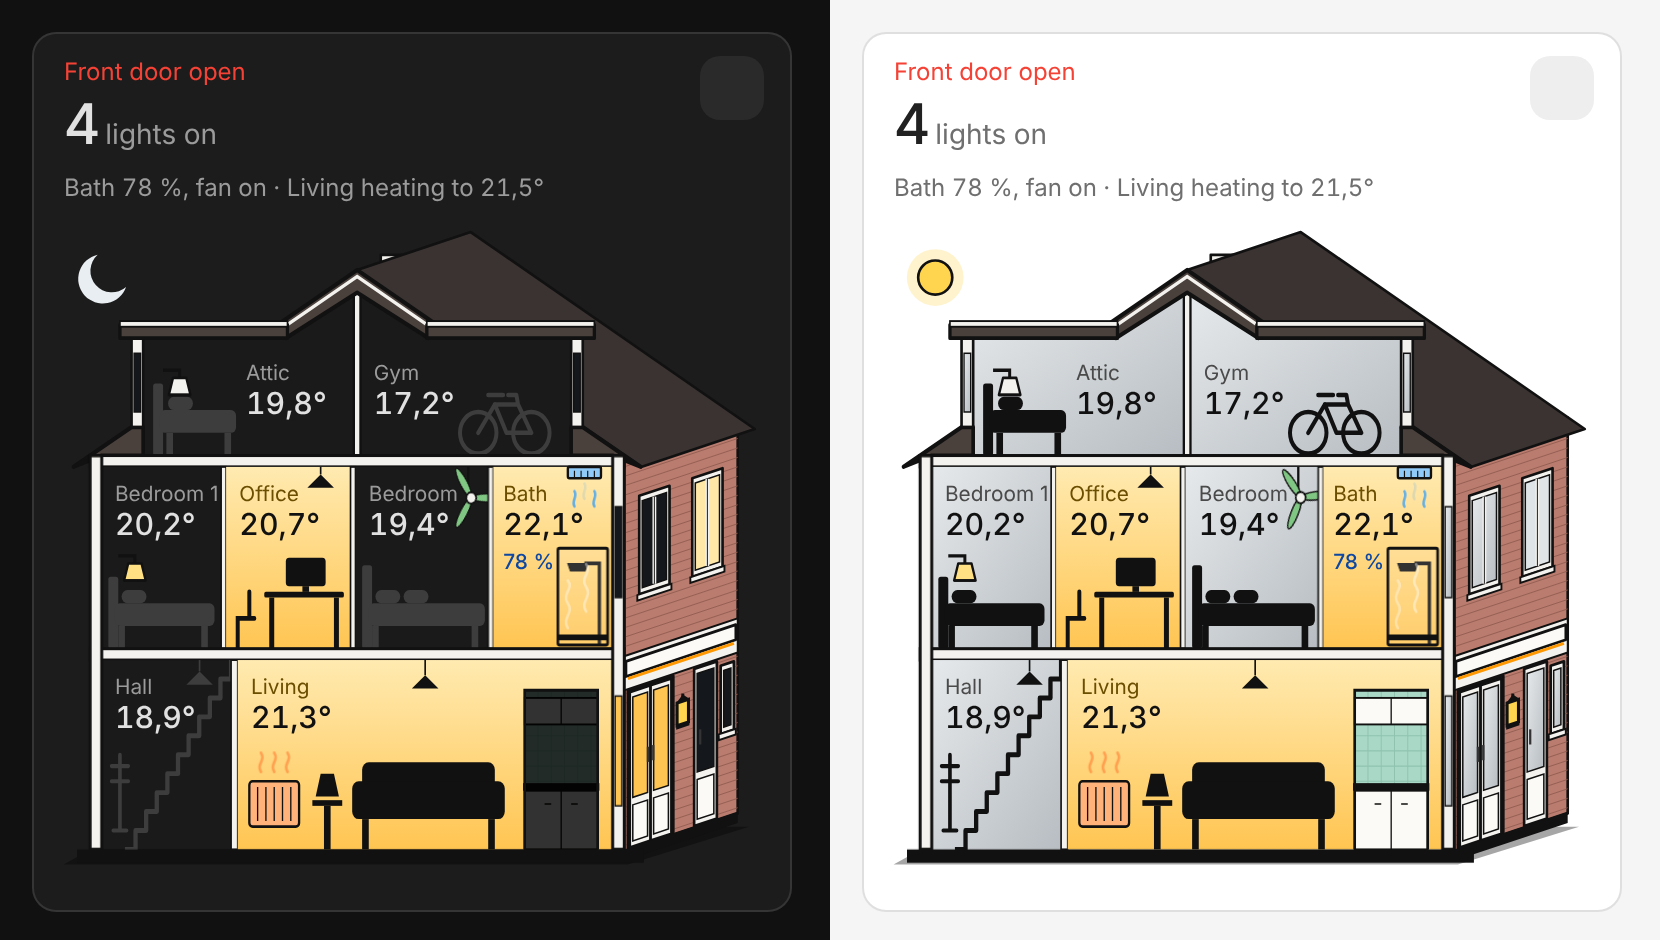
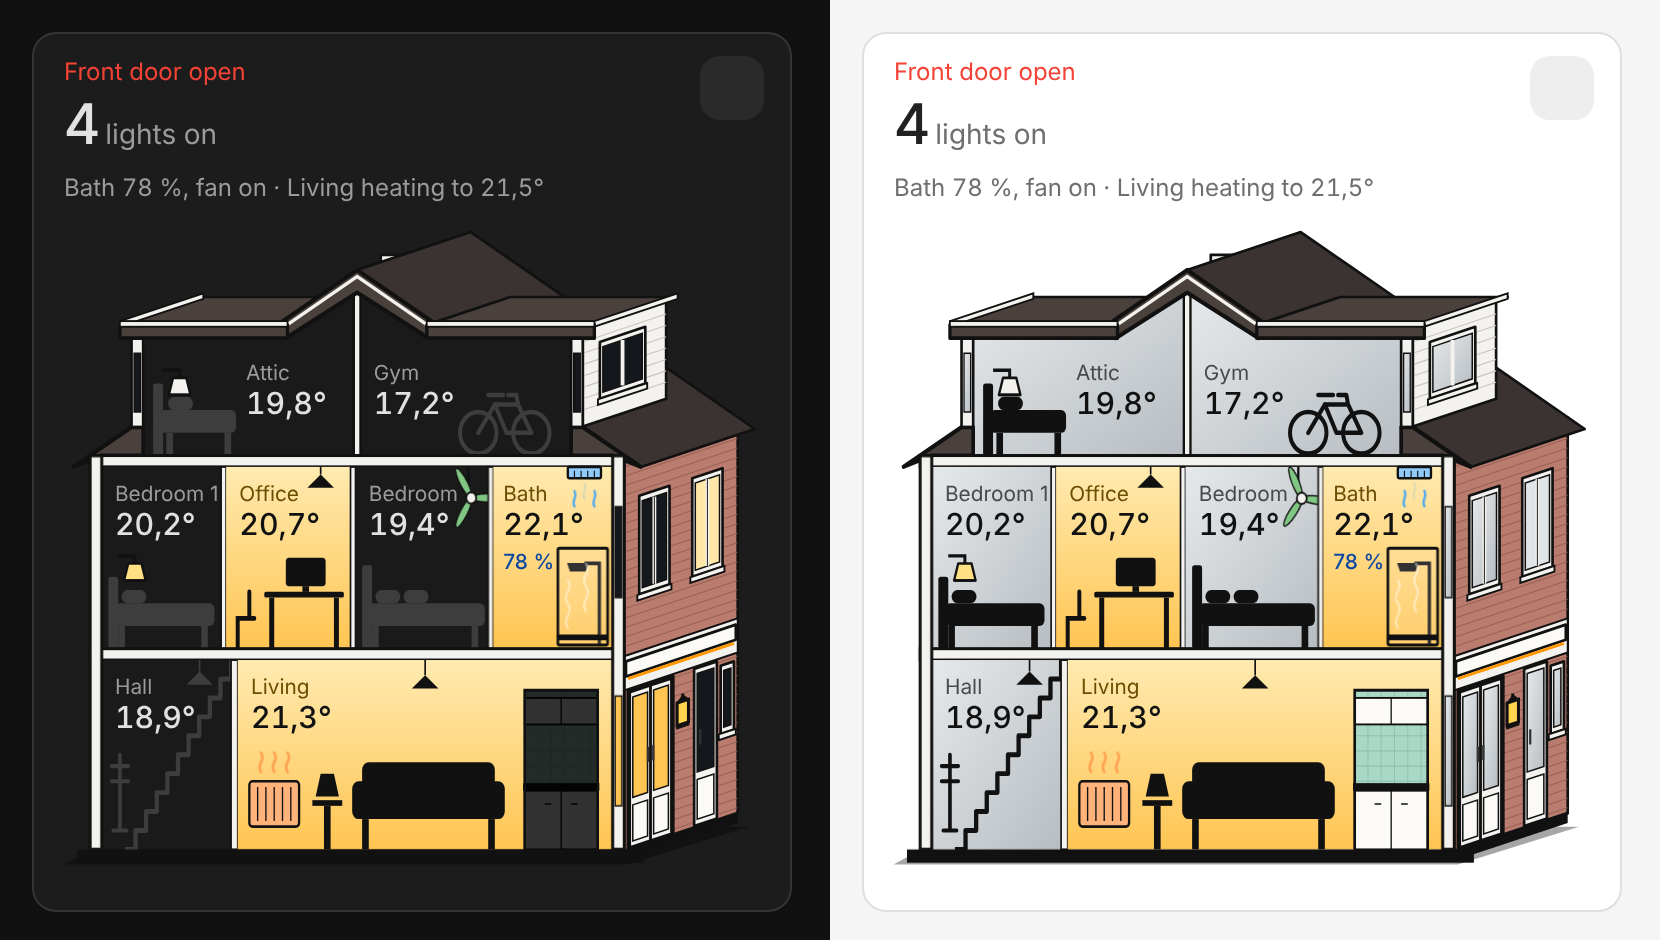
v0.4.1: dakkapellen in perspective, no sun or moon
The dakkapellen get depth: their flat roofs recede along the roof with
the same oblique as the garden side, and the right one shows its side
with cladding and a window. The sun and moon are gone; night and day
still show in the rooms.

Claude-Session: https://claude.ai/code/session_017BEvUozz4RS57wTic4M66U

diff --git a/room-card.js b/room-card.js
@@ -19,7 +19,7 @@
 // Everything sits in one block so the top-level names cannot clash with the
 // sister cards when the files are loaded as classic scripts.
 {
-const VERSION = "0.4.0";
+const VERSION = "0.4.1";
 
 const RC_HOLD_MS = 500;
 const RC_MOVE_PX = 10;
@@ -182,8 +182,6 @@ const rcScene = (v) => `<defs>
       <linearGradient id="${v.uid}-day" x1="0" y1="0" x2="1" y2="1"><stop offset="0" stop-color="#e6e9eb"></stop><stop offset="1" stop-color="#b7bdc2"></stop></linearGradient>
       <linearGradient id="${v.uid}-beam" x1="0" y1="0" x2="0" y2="1"><stop offset="0" stop-color="#fff6cf" stop-opacity=".95"></stop><stop offset="1" stop-color="#ffe082" stop-opacity="0"></stop></linearGradient>
     </defs>
-<g opacity="${v.o.moon}"><path d="M22 -2a13 13 0 1 0 15 17a10.5 10.5 0 1 1 -15 -17z" fill="#e8eef2"></path></g>
-<g opacity="${v.o.sun}"><circle cx="26" cy="10" r="15" fill="#ffd54f" opacity=".28"></circle><circle cx="26" cy="10" r="9" fill="#ffd54f" stroke="#111" stroke-width="1.4" stroke-linejoin="round"></circle></g>
 <polygon points="4,320 302,320 366,300 40,300" fill="#000" opacity=".35"></polygon>
 <polygon points="300.0,104.0 360.0,84.0 360.0,293.0 300.0,313.0" fill="#b97c6e" stroke="#111" stroke-width="1.4" stroke-linejoin="round"></polygon>
 <g><line x1="300.0" y1="110.0" x2="360.0" y2="90.0" stroke="#8f5a4f" stroke-width="0.45"></line><line x1="300.0" y1="115.0" x2="360.0" y2="95.0" stroke="#8f5a4f" stroke-width="0.45"></line><line x1="300.0" y1="120.0" x2="360.0" y2="100.0" stroke="#8f5a4f" stroke-width="0.45"></line><line x1="300.0" y1="125.0" x2="360.0" y2="105.0" stroke="#8f5a4f" stroke-width="0.45"></line><line x1="300.0" y1="130.0" x2="360.0" y2="110.0" stroke="#8f5a4f" stroke-width="0.45"></line><line x1="300.0" y1="135.0" x2="360.0" y2="115.0" stroke="#8f5a4f" stroke-width="0.45"></line><line x1="300.0" y1="140.0" x2="360.0" y2="120.0" stroke="#8f5a4f" stroke-width="0.45"></line><line x1="300.0" y1="145.0" x2="360.0" y2="125.0" stroke="#8f5a4f" stroke-width="0.45"></line><line x1="300.0" y1="150.0" x2="360.0" y2="130.0" stroke="#8f5a4f" stroke-width="0.45"></line><line x1="300.0" y1="155.0" x2="360.0" y2="135.0" stroke="#8f5a4f" stroke-width="0.45"></line><line x1="300.0" y1="160.0" x2="360.0" y2="140.0" stroke="#8f5a4f" stroke-width="0.45"></line><line x1="300.0" y1="165.0" x2="360.0" y2="145.0" stroke="#8f5a4f" stroke-width="0.45"></line><line x1="300.0" y1="170.0" x2="360.0" y2="150.0" stroke="#8f5a4f" stroke-width="0.45"></line><line x1="300.0" y1="175.0" x2="360.0" y2="155.0" stroke="#8f5a4f" stroke-width="0.45"></line><line x1="300.0" y1="180.0" x2="360.0" y2="160.0" stroke="#8f5a4f" stroke-width="0.45"></line><line x1="300.0" y1="185.0" x2="360.0" y2="165.0" stroke="#8f5a4f" stroke-width="0.45"></line><line x1="300.0" y1="190.0" x2="360.0" y2="170.0" stroke="#8f5a4f" stroke-width="0.45"></line><line x1="300.0" y1="195.0" x2="360.0" y2="175.0" stroke="#8f5a4f" stroke-width="0.45"></line><line x1="300.0" y1="200.0" x2="360.0" y2="180.0" stroke="#8f5a4f" stroke-width="0.45"></line><line x1="300.0" y1="205.0" x2="360.0" y2="185.0" stroke="#8f5a4f" stroke-width="0.45"></line><line x1="300.0" y1="210.0" x2="360.0" y2="190.0" stroke="#8f5a4f" stroke-width="0.45"></line><line x1="300.0" y1="215.0" x2="360.0" y2="195.0" stroke="#8f5a4f" stroke-width="0.45"></line><line x1="300.0" y1="220.0" x2="360.0" y2="200.0" stroke="#8f5a4f" stroke-width="0.45"></line><line x1="300.0" y1="225.0" x2="360.0" y2="205.0" stroke="#8f5a4f" stroke-width="0.45"></line><line x1="300.0" y1="230.0" x2="360.0" y2="210.0" stroke="#8f5a4f" stroke-width="0.45"></line><line x1="300.0" y1="235.0" x2="360.0" y2="215.0" stroke="#8f5a4f" stroke-width="0.45"></line><line x1="300.0" y1="240.0" x2="360.0" y2="220.0" stroke="#8f5a4f" stroke-width="0.45"></line><line x1="300.0" y1="245.0" x2="360.0" y2="225.0" stroke="#8f5a4f" stroke-width="0.45"></line><line x1="300.0" y1="250.0" x2="360.0" y2="230.0" stroke="#8f5a4f" stroke-width="0.45"></line><line x1="300.0" y1="255.0" x2="360.0" y2="235.0" stroke="#8f5a4f" stroke-width="0.45"></line><line x1="300.0" y1="260.0" x2="360.0" y2="240.0" stroke="#8f5a4f" stroke-width="0.45"></line><line x1="300.0" y1="265.0" x2="360.0" y2="245.0" stroke="#8f5a4f" stroke-width="0.45"></line><line x1="300.0" y1="270.0" x2="360.0" y2="250.0" stroke="#8f5a4f" stroke-width="0.45"></line><line x1="300.0" y1="275.0" x2="360.0" y2="255.0" stroke="#8f5a4f" stroke-width="0.45"></line><line x1="300.0" y1="280.0" x2="360.0" y2="260.0" stroke="#8f5a4f" stroke-width="0.45"></line><line x1="300.0" y1="285.0" x2="360.0" y2="265.0" stroke="#8f5a4f" stroke-width="0.45"></line><line x1="300.0" y1="290.0" x2="360.0" y2="270.0" stroke="#8f5a4f" stroke-width="0.45"></line><line x1="300.0" y1="295.0" x2="360.0" y2="275.0" stroke="#8f5a4f" stroke-width="0.45"></line><line x1="300.0" y1="300.0" x2="360.0" y2="280.0" stroke="#8f5a4f" stroke-width="0.45"></line><line x1="300.0" y1="305.0" x2="360.0" y2="285.0" stroke="#8f5a4f" stroke-width="0.45"></line><line x1="300.0" y1="310.0" x2="360.0" y2="290.0" stroke="#8f5a4f" stroke-width="0.45"></line></g>
@@ -205,6 +203,7 @@ const rcScene = (v) => `<defs>
 <polygon points="300.0,312.0 360.0,292.0 360.0,298.0 300.0,318.0" fill="#111" ></polygon>
 <rect x="174" y="2" width="12.3" height="22" fill="#b97c6e" stroke="#111" stroke-width="1.4" stroke-linejoin="round"></rect><rect x="171.5" y="-2" width="17.5" height="5" fill="#f4f2ee" stroke="#111" stroke-width="1.4" stroke-linejoin="round"></rect>
 <polygon points="309,110 159,6 219,-14 369,90" fill="#3a3331" stroke="#111" stroke-width="1.4" stroke-linejoin="round"></polygon>
+<polygon points="33.8,35.0 122.2,35.0 166.2,20.3 77.8,20.3" fill="#4a403c" stroke="#111" stroke-width="1.4" stroke-linejoin="round"></polygon><polygon points="33.8,33.0 33.8,36.0 77.8,21.3 77.8,18.3" fill="#f4f2ee" stroke="#111" stroke-width="1"></polygon><polygon points="278.2,36.0 322.2,21.3 322.2,74.0 278.2,88.7" fill="#f4f2ee" stroke="#111" stroke-width="1.4" stroke-linejoin="round"></polygon><line x1="278.2" y1="44.0" x2="322.2" y2="29.3" stroke="#c9c5bd" stroke-width=".6"></line><line x1="278.2" y1="50.0" x2="322.2" y2="35.3" stroke="#c9c5bd" stroke-width=".6"></line><line x1="278.2" y1="56.0" x2="322.2" y2="41.3" stroke="#c9c5bd" stroke-width=".6"></line><line x1="278.2" y1="62.0" x2="322.2" y2="47.3" stroke="#c9c5bd" stroke-width=".6"></line><line x1="278.2" y1="68.0" x2="322.2" y2="53.3" stroke="#c9c5bd" stroke-width=".6"></line><line x1="278.2" y1="74.0" x2="322.2" y2="59.3" stroke="#c9c5bd" stroke-width=".6"></line><line x1="278.2" y1="80.0" x2="322.2" y2="65.3" stroke="#c9c5bd" stroke-width=".6"></line><polygon points="287.2,44.0 311.2,36.0 311.2,66.0 287.2,74.0" fill="#f4f2ee" stroke="#111" stroke-width="1.4" stroke-linejoin="round"></polygon><polygon points="288.8,46.5 309.6,39.5 309.6,63.5 288.8,70.5" fill="${v.winGlass}" stroke="#111" stroke-width=".8"></polygon><line x1="299.2" y1="43.0" x2="299.2" y2="67.0" stroke="#f4f2ee" stroke-width="2"></line><polygon points="286.2,74.3 312.2,65.7 312.2,68.7 286.2,77.3" fill="#f4f2ee" stroke="#111" stroke-width="1"></polygon><polygon points="195.8,35.0 284.3,35.0 328.3,20.3 239.8,20.3" fill="#4a403c" stroke="#111" stroke-width="1.4" stroke-linejoin="round"></polygon><polygon points="284.3,33.0 284.3,36.0 328.3,21.3 328.3,18.3" fill="#f4f2ee" stroke="#111" stroke-width="1"></polygon>
 <g transform="matrix(0.876 0 0 1 2.232 0)">
 <g class="room ${v.cls.attic_right}" data-act="attic_right" role="button" tabindex="0" aria-label="${v.aria.attic_right}"><polygon points="181,19 222,42 308,42 308,104 181,104" fill="${v.fill.attic_right}"></polygon><g fill="none" stroke="${v.ink.attic_right}" stroke-width="2.4" stroke-linecap="round" stroke-linejoin="round"><circle cx="252" cy="92" r="11"></circle><circle cx="284" cy="92" r="11"></circle><path d="M252 92l10-15h14l8 15M262 77l7 15h15M276 77l-1-5h-5M258 72h9"></path></g><text transform="matrix(1.1416 0 0 1 -26.753 0)" x="189" y="64" font-size="11" fill="${v.txt2.attic_right}">${v.label.attic_right}</text><text transform="matrix(1.1416 0 0 1 -26.753 0)" x="189" y="82" font-size="16" font-weight="500" fill="${v.txt.attic_right}" style="font-variant-numeric: tabular-nums">${v.temp.attic_right}</text></g>
 <g class="room ${v.cls.attic_left}" data-act="attic_left" role="button" tabindex="0" aria-label="${v.aria.attic_left}"><polygon points="50,104 50,42 136,42 177,19 177,104" fill="${v.fill.attic_left}"></polygon><g fill="${v.ink.attic_left}"><rect x="56" y="66" width="6" height="38" rx="1.5"></rect><rect x="60" y="80" width="46" height="12" rx="3"></rect><rect x="64" y="92" width="4" height="12"></rect><rect x="99" y="92" width="4" height="12"></rect><rect x="65" y="73" width="15" height="7" rx="3.5"></rect></g><text transform="matrix(1.1416 0 0 1 -15.854 0)" x="112" y="64" font-size="11" fill="${v.txt2.attic_left}">${v.label.attic_left}</text><text transform="matrix(1.1416 0 0 1 -15.854 0)" x="112" y="82" font-size="16" font-weight="500" fill="${v.txt.attic_left}" style="font-variant-numeric: tabular-nums">${v.temp.attic_left}</text></g>
@@ -746,8 +745,6 @@ class RoomCard extends HTMLElement {
     v.kitchenGlass = night ? (kitchenOn ? "#ffc552" : "#14181c") : `url(#${u}-day)`;
     v.lanternGlass = this._on(c.entities.lantern) ? "#ffd54f" : "#3a3a3a";
     v.hemColor = "#ff9800";
-    v.o.moon = night ? 1 : 0;
-    v.o.sun = night ? 0 : 1;
     return v;
   }
 

diff --git a/README.md b/README.md
@@ -21,7 +21,7 @@ The drawing is the owner's house: an attic with a dakkapel on both sides (two ro
 | Living room | Radiator that glows with heat waves while its thermostat is heating; open passage to the kitchen |
 | Kitchen | Lit by day; at night dark, or warm while `kitchen_light` is on. Its door and window on the garden side follow the same |
 | Garden side | The facade from the Gardenview House card: sun screen cassette, French doors, brick pier with the lantern, kitchen door and window. At night the French doors and the `first_3` window glow while that room's light is on; the bathroom window is frosted and glows pale |
-| Sky | Moon at night, sun by day. Dark: the `dark` entity (on/off, or an illuminance sensor below `dark_below`), else the sun below the horizon |
+| Night and day | Dark: the `dark` entity (on/off, or an illuminance sensor below `dark_below`), else the sun below the horizon |
 
 ## Using it
 

diff --git a/CHANGELOG.md b/CHANGELOG.md
@@ -1,5 +1,11 @@
 # Changelog
 
+## v0.4.1
+
+### Changed
+* The dakkapellen are drawn in perspective: their flat roofs run back along the roof like the garden side, and the right one shows its side with a window.
+* No sun or moon in the sky. Night and day still show in the rooms (black glass or silver).
+
 ## v0.4.0
 
 ### Breaking
